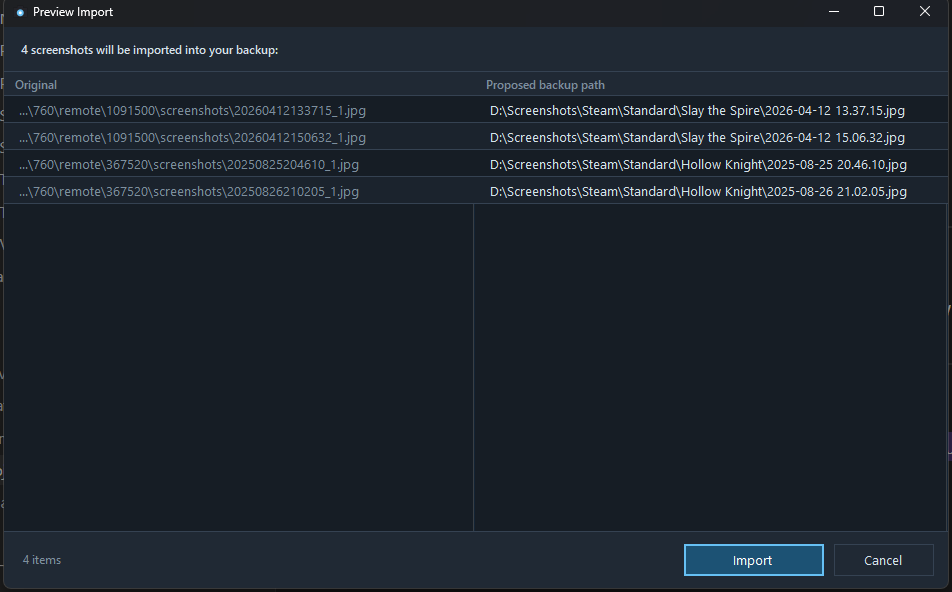
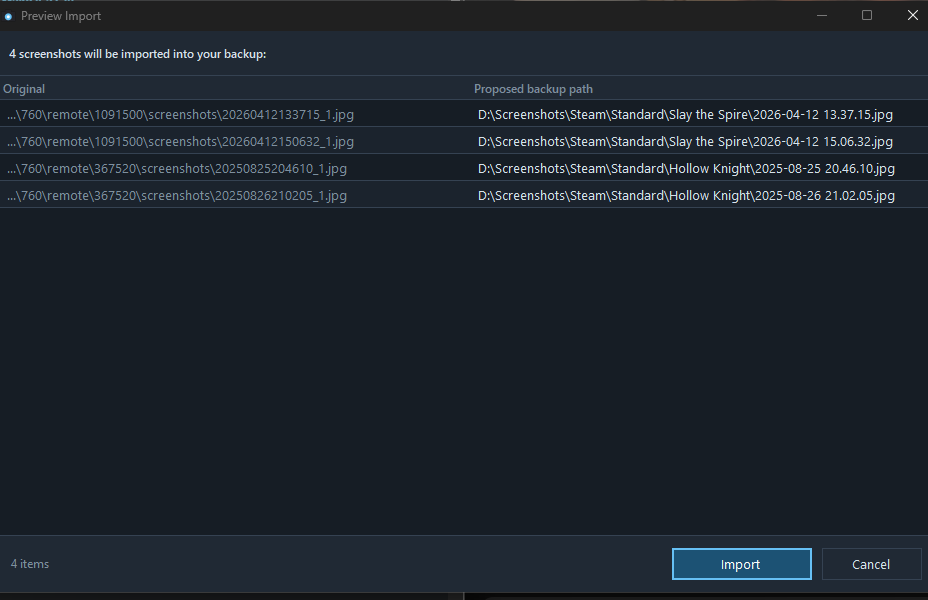
v3.11.3: color-code update notices, gray out update-check when offline
Added a dedicated LogLevel.Update so "Update available" entries get their
own accent color in the activity feed instead of blending in with plain
Info entries.

Offline mode already skipped update checks at runtime; the "Automatically
check for new versions" checkbox now grays out to make that visible too,
both in Settings (live, on toggling Offline mode) and in the installer's
task list (when "Offline mode" is selected, "Turn off automatic update
checks" is forced on and disabled).

Preview Import's list view already had the FlatListView fix from 3.11.1
(verified: no column-divider artifact even with a single row), so no
code change was needed there - just regenerated its stale screenshot.

Also added vt-scan.ps1 for API-based VirusTotal scanning of release
artifacts (checks by hash first, uploads only if unseen).

diff --git a/app/SettingsWindow.cs b/app/SettingsWindow.cs
@@ -212,6 +212,11 @@ namespace SteamScreenshotBackup
             Hint("A read-only check against this project's GitHub releases page \u2014 no data\n" +
                  "about you or your files is sent, just a request for the latest version number.");
             y += 44;
+
+            // Offline mode already skips update checks at runtime (see TrayContext);
+            // gray this out too so the UI doesn't imply it does something on its own.
+            _checkForUpdates.Enabled = !_offlineMode.Checked;
+            _offlineMode.CheckedChanged += (s, e) => _checkForUpdates.Enabled = !_offlineMode.Checked;
 #endif
             int generalBottom = y;
 

diff --git a/app/MainWindow.cs b/app/MainWindow.cs
@@ -488,7 +488,7 @@ namespace SteamScreenshotBackup
             2 => e.Level == LogLevel.Restore,
             3 => e.Level == LogLevel.Deletion,
             4 => e.Level == LogLevel.Warning || e.Level == LogLevel.Error,
-            5 => e.Level == LogLevel.Info,
+            5 => e.Level == LogLevel.Info || e.Level == LogLevel.Update,
             _ => true
         };
 
@@ -521,6 +521,7 @@ namespace SteamScreenshotBackup
                 LogLevel.Deletion => "Deletion",
                 LogLevel.Warning => "Warning",
                 LogLevel.Error => "Error",
+                LogLevel.Update => "Update",
                 _ => "Info"
             };
             var item = new ListViewItem(e.Time.ToString("yyyy-MM-dd HH:mm:ss")) { Tag = e };
@@ -549,6 +550,7 @@ namespace SteamScreenshotBackup
             LogLevel.Deletion => Theme.Warning,
             LogLevel.Warning => Theme.Warning,
             LogLevel.Error => Theme.Error,
+            LogLevel.Update => Theme.Accent,
             _ => Theme.TextDim
         };
 

diff --git a/app/Logger.cs b/app/Logger.cs
@@ -5,7 +5,7 @@ using System.Text.RegularExpressions;
 
 namespace SteamScreenshotBackup
 {
-    internal enum LogLevel { Info, Backup, Restore, Deletion, Warning, Error }
+    internal enum LogLevel { Info, Backup, Restore, Deletion, Warning, Error, Update }
 
     internal class LogEntry
     {
@@ -51,6 +51,7 @@ namespace SteamScreenshotBackup
         public static void Backup(string message, string filePath) => Write(LogLevel.Backup, message, filePath);
         public static void Restore(string message, string filePath) => Write(LogLevel.Restore, message, filePath);
         public static void Deletion(string message, string filePath) => Write(LogLevel.Deletion, message, filePath);
+        public static void UpdateAvailable(string message) => Write(LogLevel.Update, message);
 
         public static LogEntry[] Snapshot()
         {

diff --git a/app/TrayContext.cs b/app/TrayContext.cs
@@ -264,7 +264,7 @@ namespace SteamScreenshotBackup
 
             _settings.LastNotifiedUpdateVersion = info.Version;
             _settings.Save();
-            Logger.Log($"Update available: version {info.Version} (currently running {UpdateChecker.CurrentVersion}).");
+            Logger.UpdateAvailable($"Update available: version {info.Version} (currently running {UpdateChecker.CurrentVersion}).");
             Notify(6000,
                 $"Version {info.Version} is available \u2014 use \"Check for Updates Now\" to view it.",
                 ToolTipIcon.Info);

diff --git a/README.md b/README.md
@@ -105,8 +105,9 @@ Steam Screenshots/
 - **Update checks.** Optionally checks this project's GitHub releases once a
   day and lets you know if a newer version is out (a Settings toggle or an
   installer checkbox to turn it off), plus a manual **Check for Updates Now**
-  button in the tray menu and Utilities. Off automatically in Offline mode,
-  and not present at all in the offline-only portable build.
+  button in the tray menu and Utilities. Off automatically in Offline mode
+  (its checkbox grays out in both Settings and the installer to make that
+  clear), and not present at all in the offline-only portable build.
 - **Dark and light themes**, or follow the Windows setting.
 - **Statistics**: total games, screenshots, and data, plus per-session counters.
 